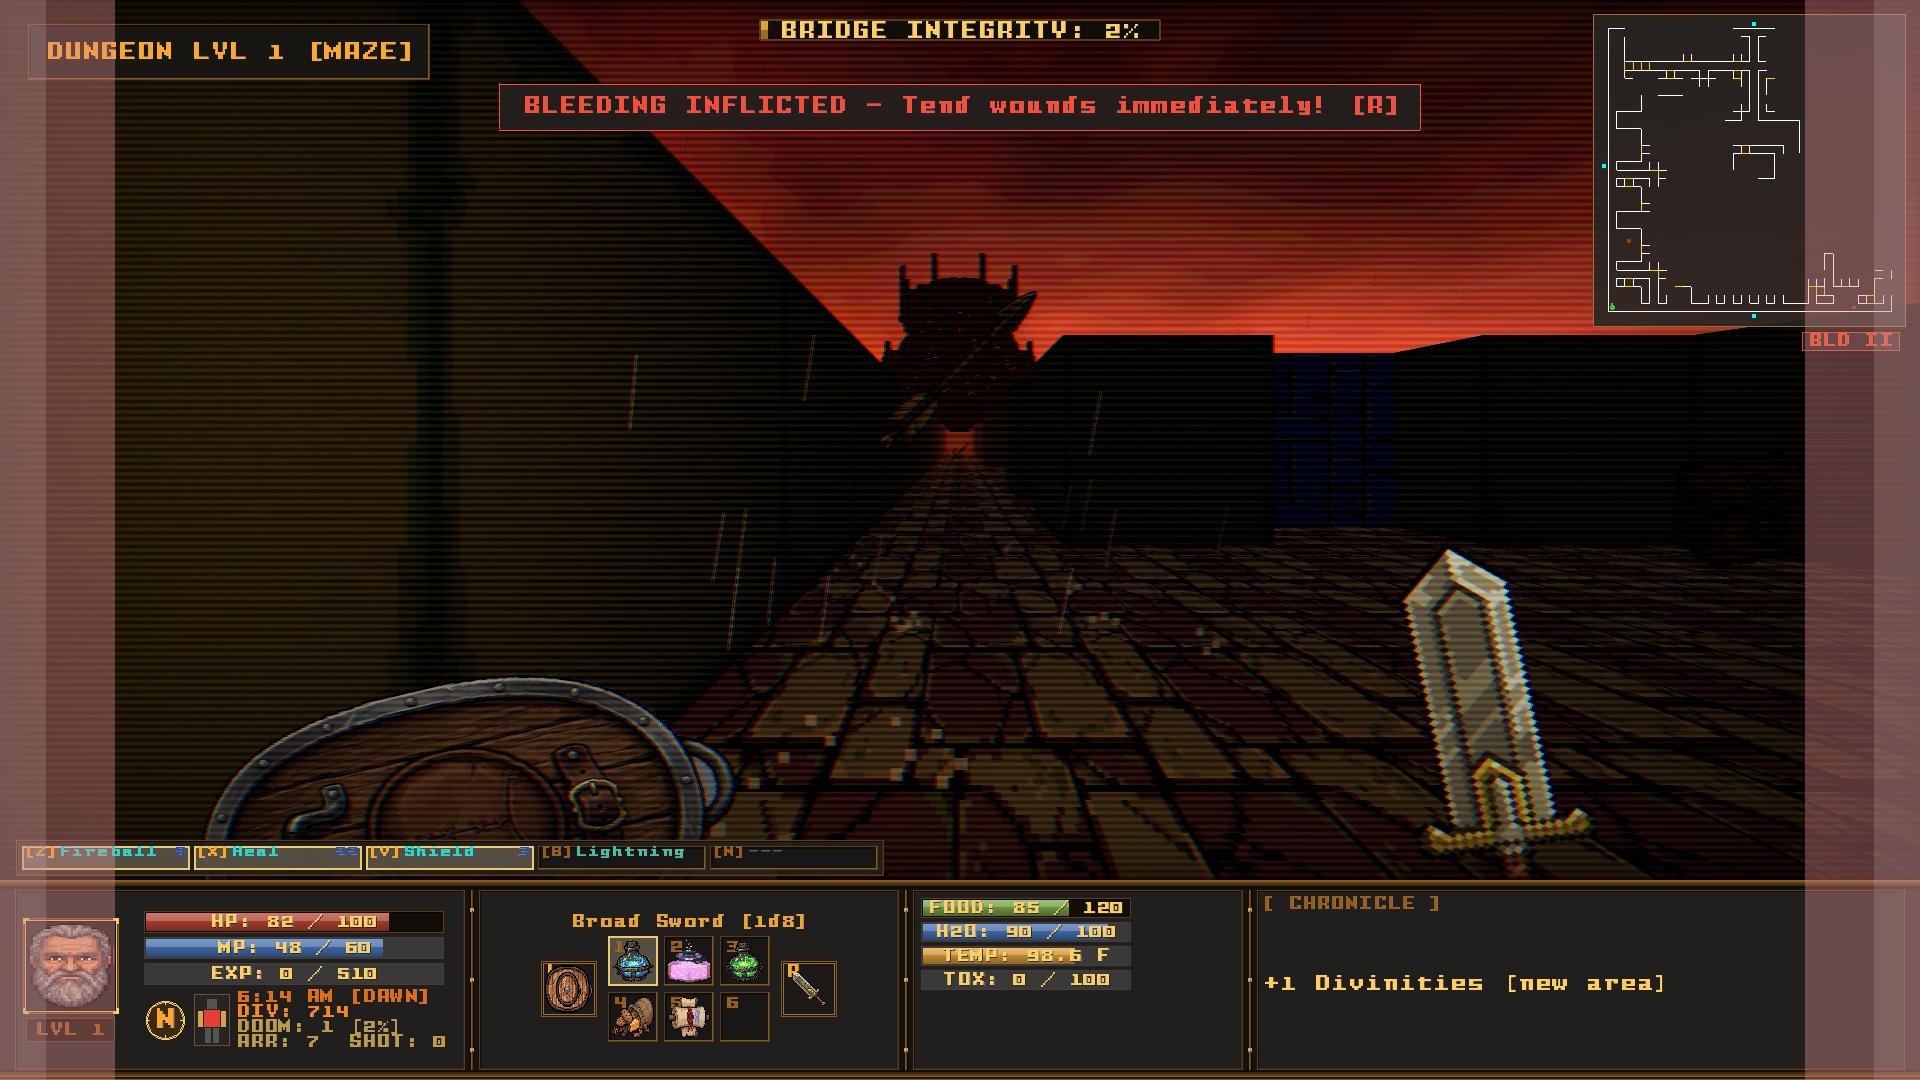
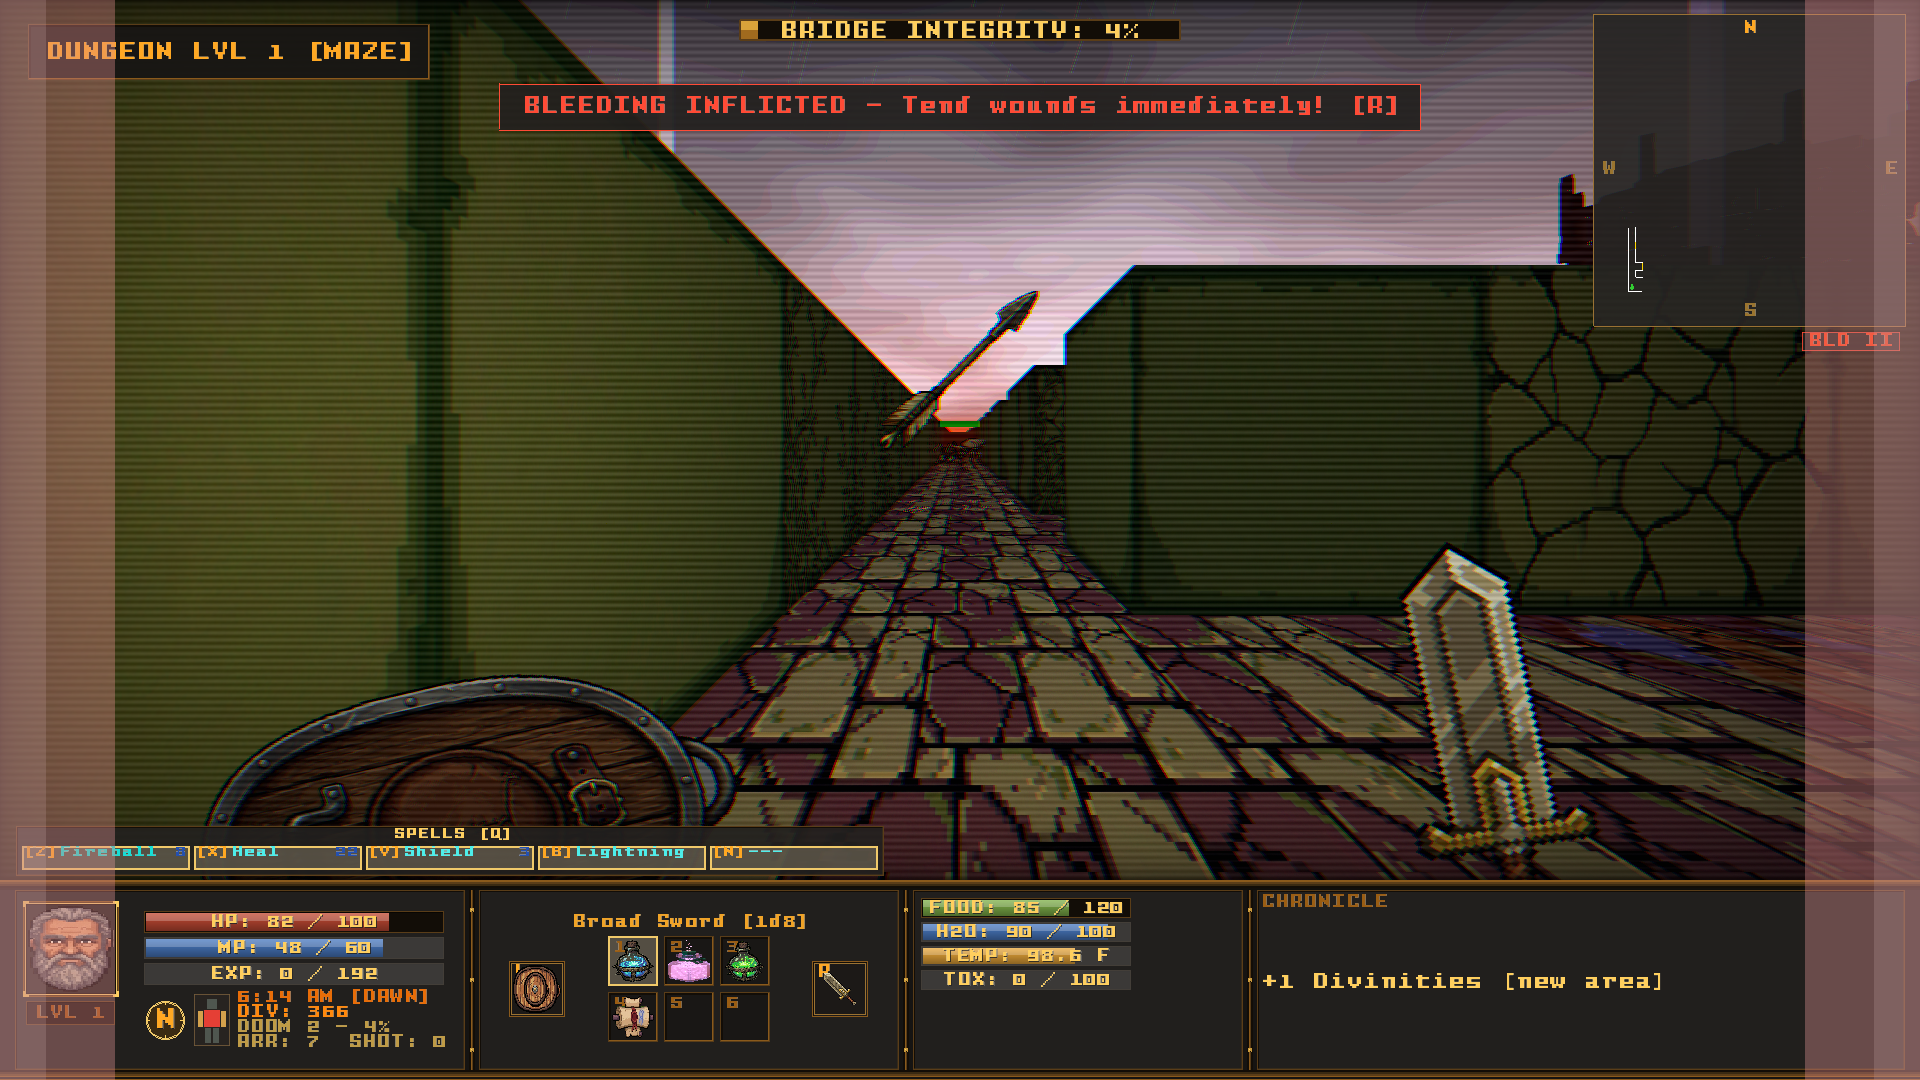
fix(capture): settle the starting trait offer so game captures stop stalling
A new character is offered starting traits, and the game screen opens the
choice the moment it renders. That took the screen away from the capture
harness, so every capture showing the game (05 onward) stalled forever.
The mock player now takes the first offered trait up front.

--capture-only accepts a comma-separated list of prefixes, and two new
captures show the shelter window from the room (24e) and from the bars
(24d).

diff --git a/core/src/main/java/com/bpm/minotaur/screens/UXScreenCaptureScreen.java b/core/src/main/java/com/bpm/minotaur/screens/UXScreenCaptureScreen.java
@@ -114,6 +114,13 @@ public class UXScreenCaptureScreen extends BaseScreen {
     private void populateMockPlayerState(Player player, Maze maze) {
         if (player == null) return;
 
+        // A new character is offered starting traits, and the game screen opens the choice
+        // the moment it renders -- which takes the screen away from this harness and stalls
+        // every capture that shows the game. Settle the offer up front.
+        if (player.needsTraitOffer()) player.offerTraits();
+        java.util.List<String> offer = player.getPendingTraitOffer();
+        player.chooseTrait(offer.isEmpty() ? null : offer.get(0));
+
         // Rich stats
         player.getStats().setCurrentHP(82);
         player.getStats().setMaxHP(100);
@@ -405,6 +412,33 @@ public class UXScreenCaptureScreen extends BaseScreen {
                     game, sharedPlayer, sharedMaze, sharedGameScreen);
             setSubScreen(s, null);
         }));
+        // Face pressed to the shelter's barred window, looking out.
+        tasks.add(new CaptureTask("24d_window_look", "Looking out the shelter window", () -> {
+            for (java.util.Map.Entry<com.badlogic.gdx.math.GridPoint2, Object> e : sharedMaze.getGameObjects().entrySet()) {
+                if (e.getValue() instanceof com.bpm.minotaur.gamedata.Window) {
+                    com.badlogic.gdx.math.GridPoint2 w = e.getKey();
+                    // The home window is in the west wall: stand east of it, facing it.
+                    sharedPlayer.setPosition(w.x + 1.5f, w.y + 0.5f);
+                    sharedPlayer.setFacing(com.bpm.minotaur.gamedata.Direction.WEST);
+                    break;
+                }
+            }
+            setSubScreen(sharedGameScreen,
+                    () -> Gdx.input.getInputProcessor().keyDown(com.badlogic.gdx.Input.Keys.ESCAPE));
+            Gdx.input.getInputProcessor().keyDown(com.badlogic.gdx.Input.Keys.E);
+        }));
+        // The same window seen from the room, a step back from it.
+        tasks.add(new CaptureTask("24e_window_room", "The shelter window from inside", () -> {
+            for (java.util.Map.Entry<com.badlogic.gdx.math.GridPoint2, Object> e : sharedMaze.getGameObjects().entrySet()) {
+                if (e.getValue() instanceof com.bpm.minotaur.gamedata.Window) {
+                    com.badlogic.gdx.math.GridPoint2 w = e.getKey();
+                    sharedPlayer.setPosition(w.x + 2.5f, w.y + 0.5f);
+                    sharedPlayer.setFacing(com.bpm.minotaur.gamedata.Direction.WEST);
+                    break;
+                }
+            }
+            setSubScreen(sharedGameScreen, null);
+        }));
         // The map reopens at the view it was left in, so these step from the region view above.
         tasks.add(new CaptureTask("24b_map_world", "Expedition Map, world view", () -> {
             com.bpm.minotaur.screens.map.ExpeditionMapScreen s = new com.bpm.minotaur.screens.map.ExpeditionMapScreen(
@@ -477,11 +511,12 @@ public class UXScreenCaptureScreen extends BaseScreen {
             setSubScreen(s, null);
         }));
 
-        // --capture-only=<prefix> captures just the screens whose id starts with it, so checking
-        // one screen does not mean waiting on all of them.
+        // --capture-only=<prefix>[,<prefix>...] captures just the screens whose id starts with
+        // one of them, so checking one screen does not mean waiting on all of them.
         String only = com.bpm.minotaur.Tarmin2.captureOnly();
         if (only != null) {
-            tasks.removeIf(t -> !t.id.startsWith(only));
+            java.util.List<String> prefixes = java.util.Arrays.asList(only.split(","));
+            tasks.removeIf(t -> prefixes.stream().noneMatch(t.id::startsWith));
         }
     }
 

diff --git a/docs/ux/ux-standard.md b/docs/ux/ux-standard.md
@@ -21,9 +21,9 @@ drawn in two different fonts on the same row. Both are what an unwritten standar
 
 This boots straight into `UXScreenCaptureScreen`, captures all 27 screens to
 `docs/ux/screenshots/polished/`, and exits on its own. Takes about 40 seconds.
-`--capture-baseline` writes to `baseline/` instead. Add `--capture-only=<prefix>` to capture
-just the screens whose id starts with it, e.g. `--capture-only=24` for the three expedition map
-views.
+`--capture-baseline` writes to `baseline/` instead. Add `--capture-only=<prefix>[,<prefix>...]`
+to capture just the screens whose id starts with one of them, e.g. `--capture-only=24` for the
+expedition map and window views, or `--capture-only=09,24d`.
 
 **Look at the PNG before claiming a screen is fixed.** Every defect listed in §6 was found by
 looking at a capture, not by reading code. Several were invisible in source — a button whose label
